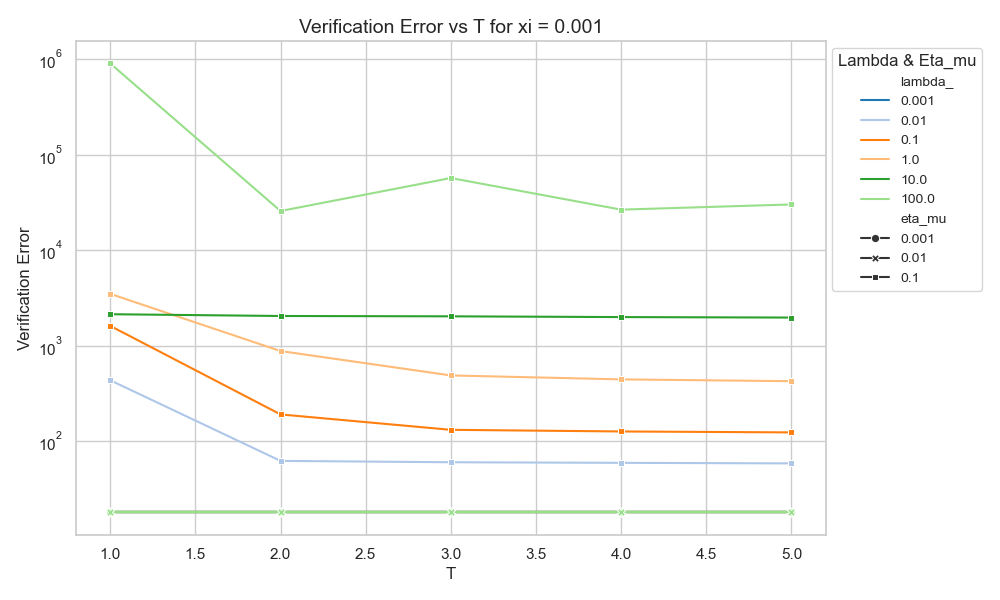
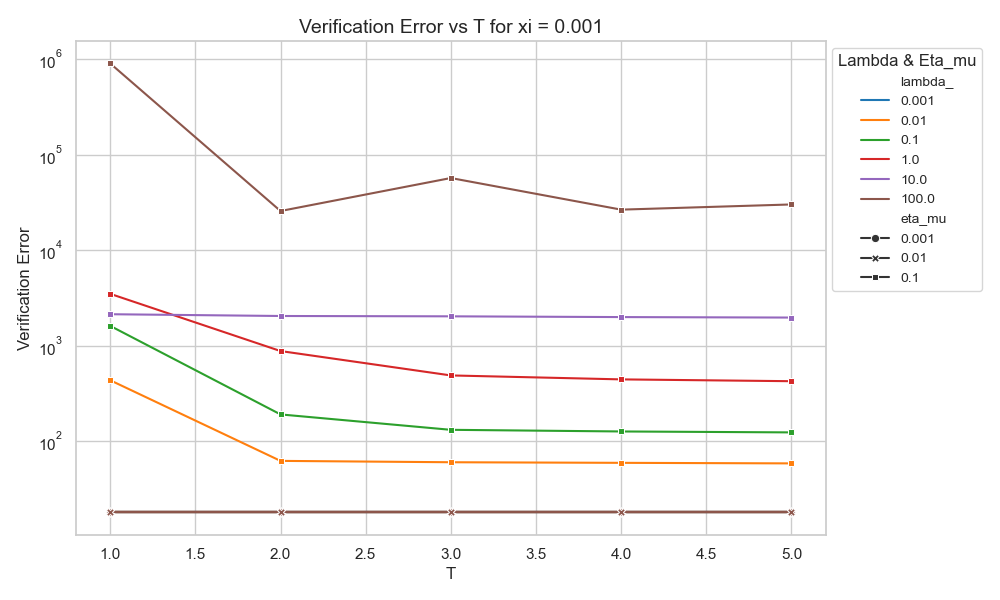
fix palette for verif error plots

diff --git a/plot_ID_search.py b/plot_ID_search.py
@@ -52,7 +52,7 @@ for xi in xi_vals:
     
     # Plot Verification Error with log scale on y-axis
     plt.figure(figsize=(10, 6))
-    sns.lineplot(data=df_filtered, x="T", y="verification_err", hue="lambda_", style="eta_mu", markers=True, dashes=False, palette="tab20")
+    sns.lineplot(data=df_filtered, x="T", y="verification_err", hue="lambda_", style="eta_mu", markers=True, dashes=False, palette="tab10")
     plt.title(f"Verification Error vs T for xi = {xi}", fontsize=14)
     plt.xlabel("T", fontsize=12)
     plt.ylabel("Verification Error", fontsize=12)
@@ -80,7 +80,7 @@ for xi in xi_vals:
     
     # Plot Verification Error with log scale on y-axis
     plt.figure(figsize=(10, 6))
-    sns.lineplot(data=df_filtered, x="lambda_", y="verification_err", hue="T", style="eta_mu", markers=True, dashes=False, palette="tab20")
+    sns.lineplot(data=df_filtered, x="lambda_", y="verification_err", hue="T", style="eta_mu", markers=True, dashes=False, palette="tab10")
     plt.title(f"Verification Error vs Lambda for xi = {xi}", fontsize=14)
     plt.xlabel("Lambda", fontsize=12)
     plt.ylabel("Verification Error", fontsize=12)
@@ -109,7 +109,7 @@ for xi in xi_vals:
     
     # Plot Verification Error with log scale on y-axis
     plt.figure(figsize=(10, 6))
-    sns.lineplot(data=df_filtered, x="eta_mu", y="verification_err", hue="lambda_", style="T", markers=True, dashes=False, palette="tab20")
+    sns.lineplot(data=df_filtered, x="eta_mu", y="verification_err", hue="lambda_", style="T", markers=True, dashes=False, palette="tab10")
     plt.title(f"Verification Error vs Eta_mu for xi = {xi}", fontsize=14)
     plt.xlabel("Eta_mu", fontsize=12)
     plt.ylabel("Verification Error", fontsize=12)
